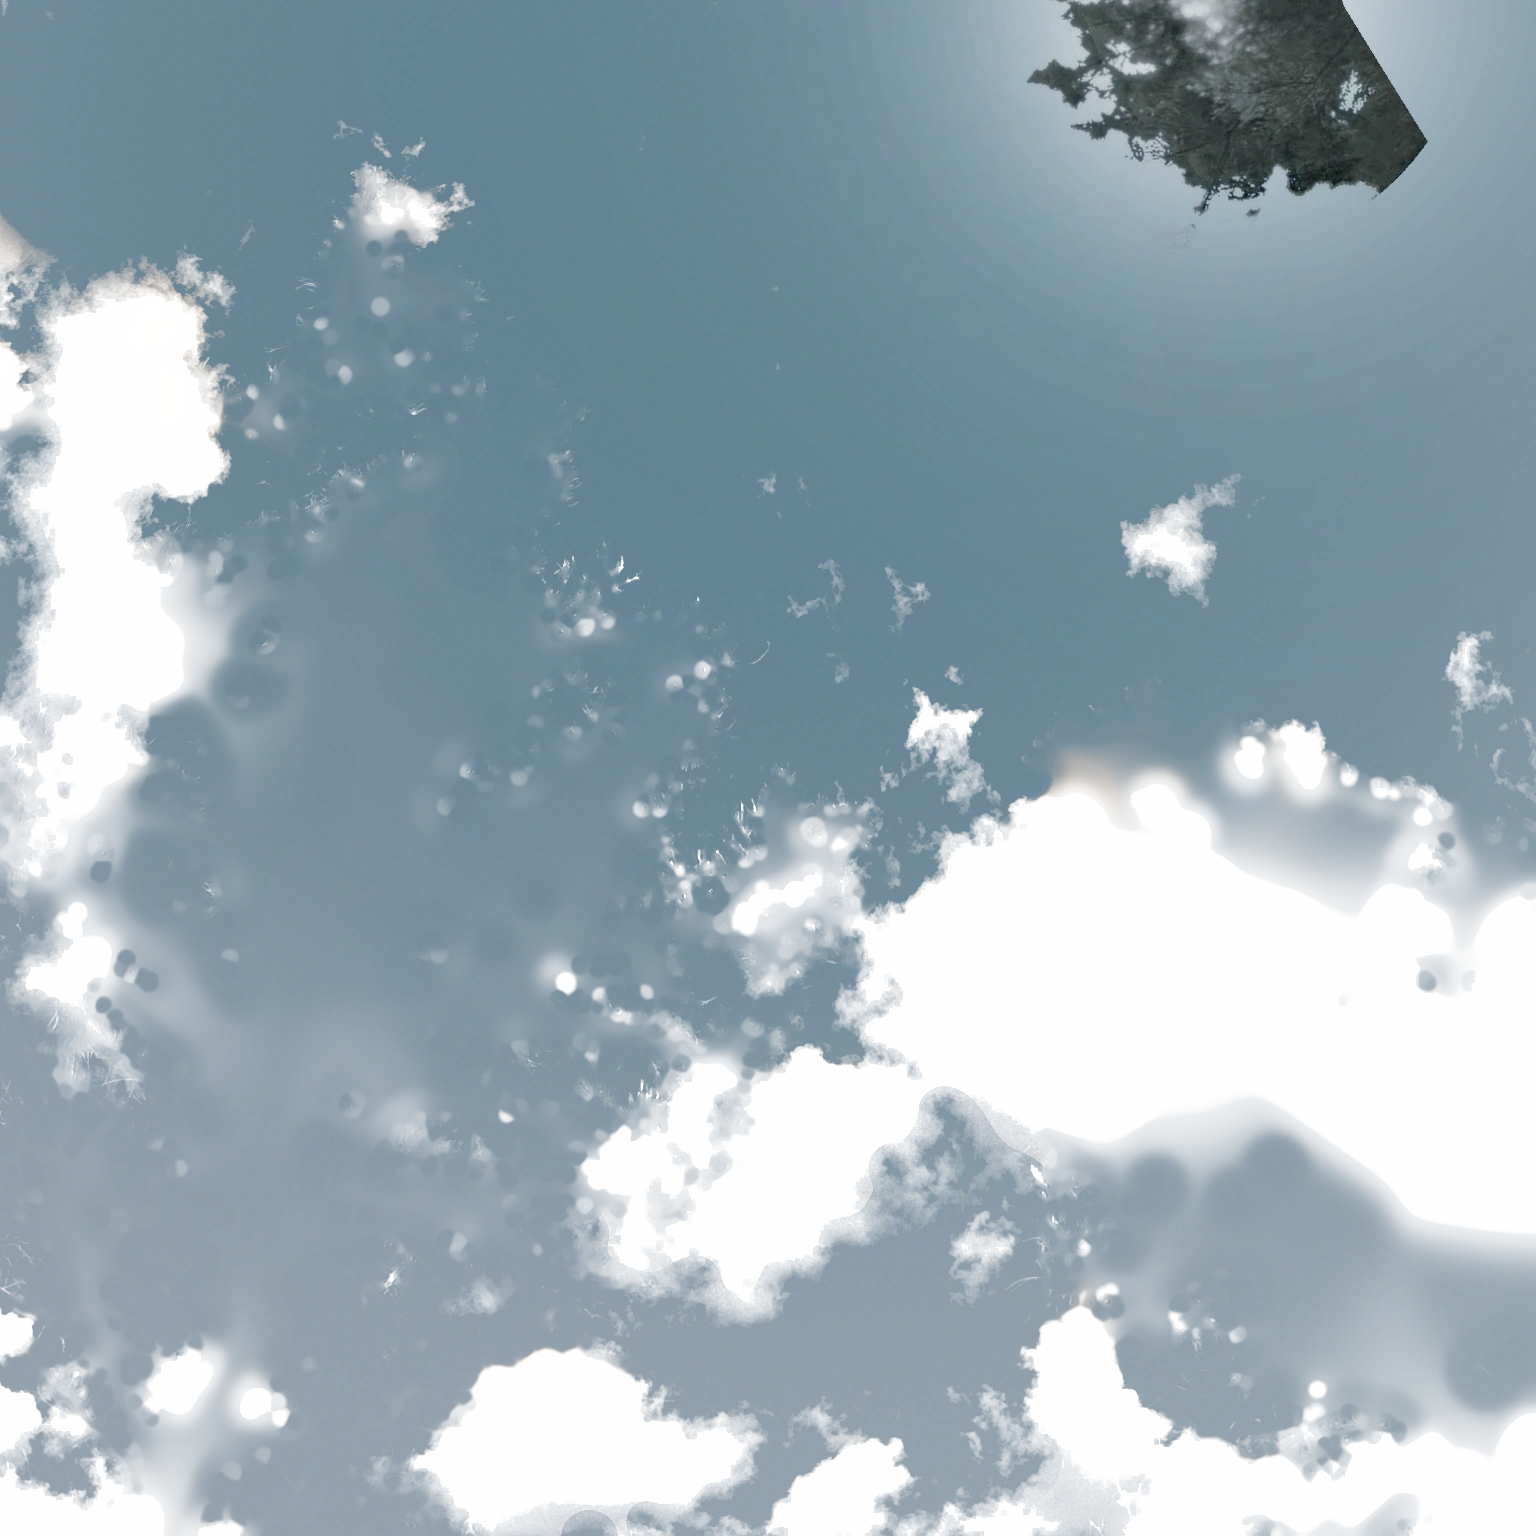
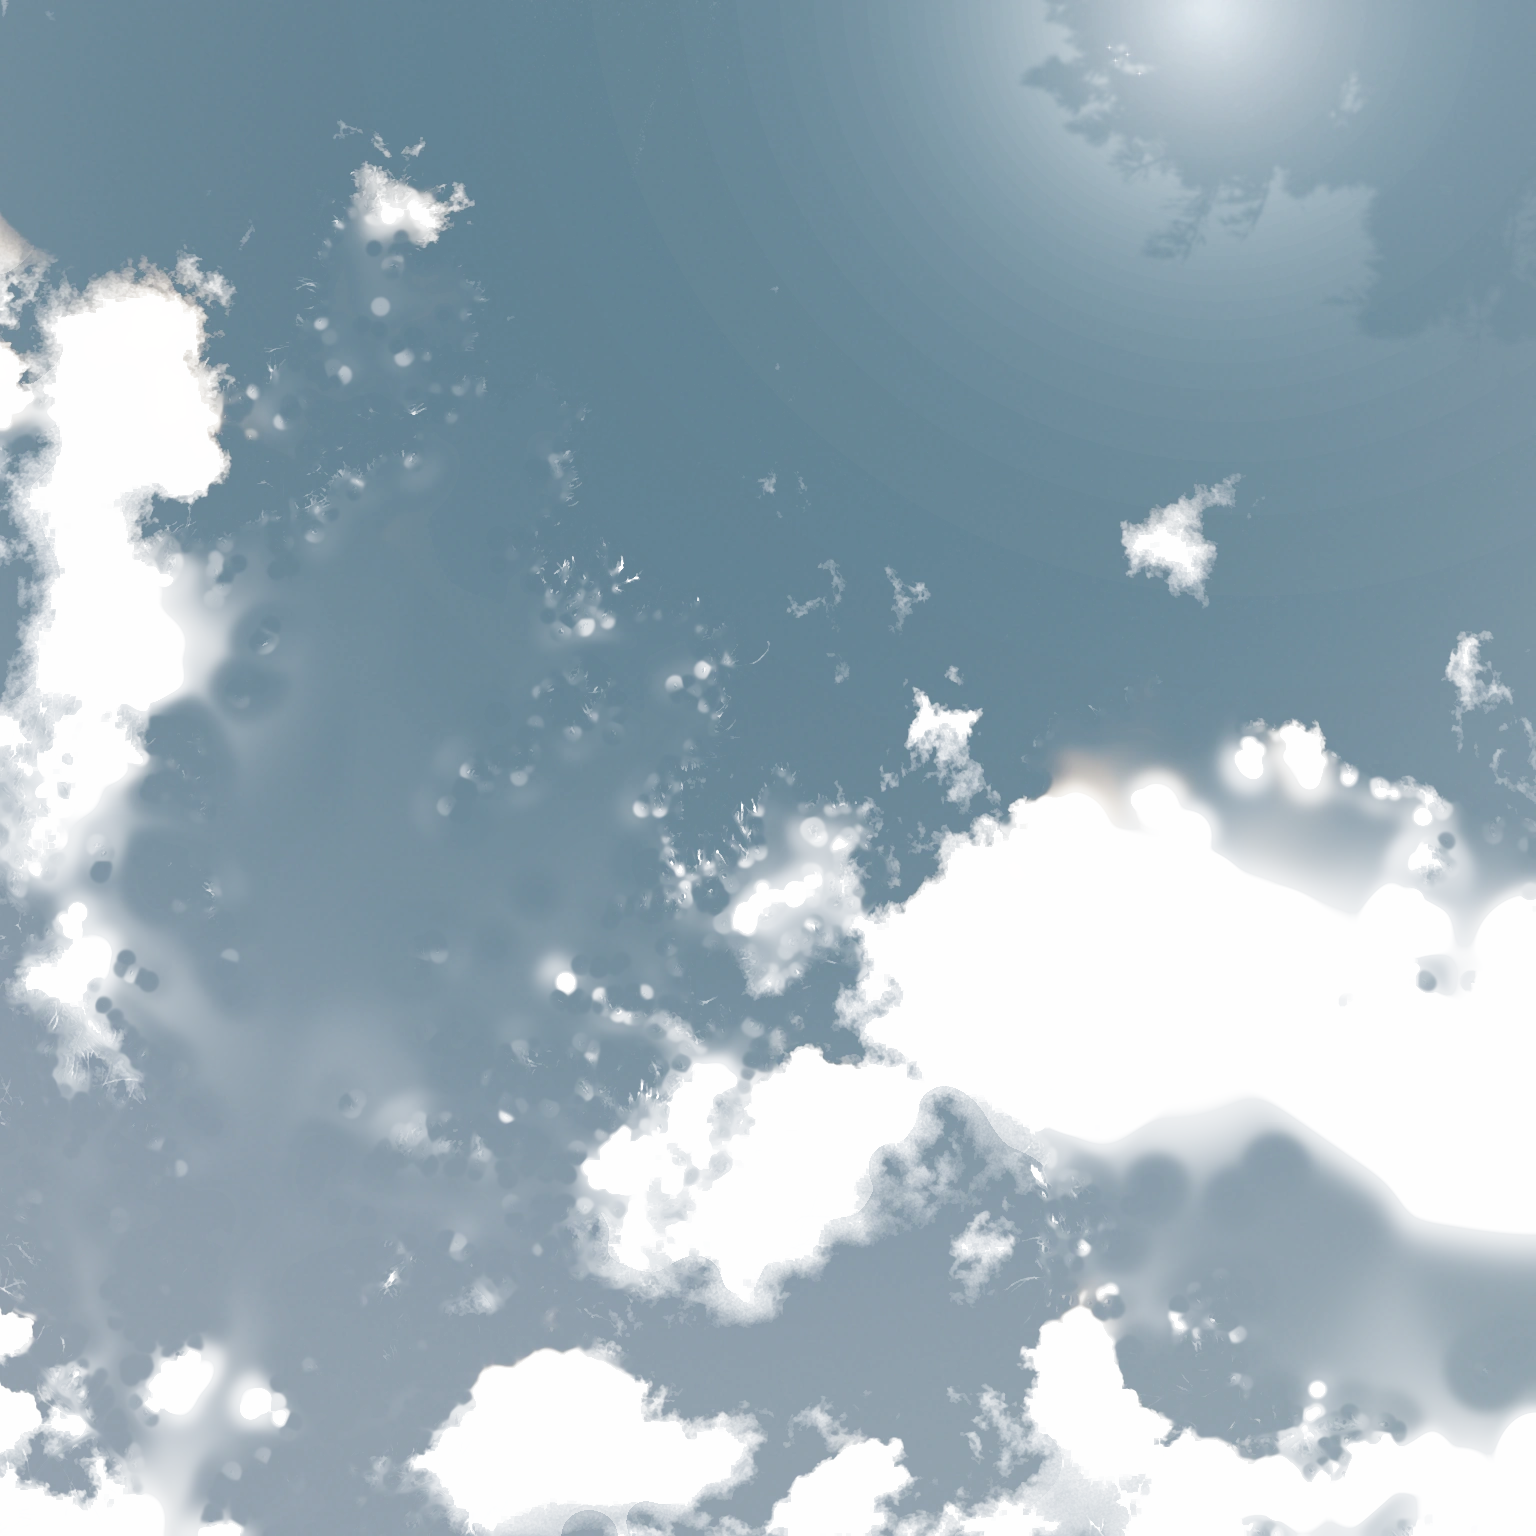
Lab: climb overexpose round 2
Claude-Session: https://claude.ai/code/session_01RqENhngNCzDFmJWDZueXGV

Changed region(s): [[0.6562, 0.0, 0.9375, 0.1562]]

diff --git a/tools/depth/bakes/overexpose/reaim.py b/tools/depth/bakes/overexpose/reaim.py
@@ -20,28 +20,41 @@
 #
 # Every pass so far is a function of the direction on the sky (the dome field is
 # of zenith angle alone, the hidden sun's aureole of the angle from it), so the
-# shipped bake is carried over exactly where it must be: each pixel of the new
+# shipped bake can be read exactly through the new camera: each pixel of the new
 # frame is a ray, and where that ray fell inside the old frame its scene,
 # sky-hold key, ink and matte are resampled from there (Lanczos, log-encoded
-# codes). That is kept only round the hidden sun (CARRY_DEG), where crown.py's
-# crown, its pin-holes, the aureole and the glow key live and no solve can
-# rebuild them. Everywhere else the tighter field would only magnify the old
-# plate (and its grain) by up to 1.4x, so the open sky is laid fresh as the
-# clean dome field (polarise.py's dome and crown.py's aureole, with
-# foliage.dome's low-order fit on the carried bake's open sky) times grain
-# matched to the photograph's at the bake's own scale, and the pines and the
-# cumulus are then solved from the 8k HDR's own radiance through the new camera
-# by foliage.foliage() and cumulus.cumulus(), exactly as they were solved before.
-# The hidden sun keeps its direction (deepen.U / V are its new frame position).
-# Where the new frame reaches past the old one's top edge the crown has nothing
-# to carry, so there (and across the carry's feather) it is solved from the HDR as
-# the other pines are.
+# codes). Nothing of it is kept in the picture, though: the tighter field would
+# only magnify the old plate (and its grain) by up to 1.4x, so the old bake only
+# lends its open sky to foliage.dome's low-order fit, its grain statistics and
+# its ink's median. The open sky is laid fresh everywhere as the clean dome
+# field (polarise.py's dome and crown.py's aureole, a function of the angle from
+# the hidden sun, with that fit) times grain matched to the photograph's at the
+# bake's own scale, and all three pines and the cumulus are then solved from the
+# 8k HDR's own radiance through the new camera by foliage.foliage() and
+# cumulus.cumulus(), exactly as they were solved before.
 #
-# Last, the optics: what the old optics held beyond a blur of the old visible
-# scene (the disc's veil around the hidden sun, beyond the encoding) is carried
-# over by the same resampling, and the blurs are rebaked from the new visible scene.
+# The hidden-sun crown too. An earlier run carried crown.py's crown (and with it
+# the aureole, pin-holes and glow key) over within 20-27 deg of the sun, the one
+# part no solve had rebuilt: it printed as the smeariest silhouette in the frame
+# (crown.py's donor was a tone-mapped, recompressed bake; its lip soft and
+# rubbery, a hanging wisp doubled by the resampling) and its feather met the
+# fresh dome along a straight diagonal seam. Now that crown is unmixed from the
+# HDR like the others (its needle sprays as fine as the lens left them), and the
+# hidden sun is laid again on the fresh sky share (sun()): the aureole is already
+# in the dome field behind the needles, so it shows through every real gap;
+# close to the sun the thinnest needles are eaten by irradiation (the matte's
+# gaps grow by up to IRR_PX); the disc sparkles in the crown's real pin-holes
+# within SPARK_DEG; and the sky hold's glow key is laid on the sky share, the
+# needle mass taking KEY_NEEDLE of it, so the crown prints as dark as the other
+# pines inside a cyan-white bloom. The hidden sun keeps its direction
+# (deepen.U / V are its new frame position).
+#
+# Last, the optics are baked from the new visible scene, plus the disc's own
+# light (beyond the encoding) as a tight veil round the hidden sun, weighted by
+# the new sky share (crown.veil).
 #
 #   python3 reaim.py <scene.webp> <trees.webp> <optics.png> <tree_lined_driveway_8k.hdr> [out_dir]
+# (optics.png is no longer read: nothing of the old optics is carried)
 # (pass copies of the old-aim files; the 3x render is cached beside the HDR)
 import sys, os; sys.path.insert(0, os.path.dirname(os.path.abspath(__file__)))
 import numpy as np
@@ -62,8 +75,12 @@ LUMA = np.array([0.2126, 0.7152, 0.0722])
 OLD = (178.0, 66.0, -10.0, 116.0, 0.4973, 0.0625)   # yaw, pitch, roll, field, hidden sun U, V of the bake carried over
 # (the first re-aim carried (150, 76, -10, 116, 0.3906, 0.1706) over to this one)
 OLD_GRAIN_BOX = (100, 330, 1050, 620)        # open sky in the old frame the grain is measured on (x0, y0, x1, y1)
-CARRY_DEG = (20.0, 27.0)                     # the old bake is kept this close to the hidden sun, fading out to the second
-FEATHER_PX = 10                              # the carried-over bake fades into the new plate over this band inside the old frame's edge
+FEATHER_PX = 10                              # the old bake's open sky counts for the dome fit this far inside the old frame's edge
+# the hidden sun, laid again on the fresh sky share (sun())
+IRR_PX, IRR_W, IRR_KEEP = 2.0, 2.5, 0.85     # irradiation: gap growth at the sun (px), its e-fold (deg), share of the opened sky kept
+SPARK_DEG, SPARK_N, SPARK_PX, SPARK_GAP = 6.0, 8, 14, 7   # sparkles: within (deg), how many, largest pin-hole (px), spacing (px)
+SPARK_OPEN = 0.35                            # a pin-hole's sky share must pass this at its brightest pixel
+SUN_KEY_DEG = 40.0                           # the glow key is laid again this close to the hidden sun (it is ~0 past it)
 
 def smooth(a, lo, hi):
     t = np.clip((a - lo) / (hi - lo), 0, 1)
@@ -107,16 +124,59 @@ def warp(a, mx, my, interp=cv2.INTER_LANCZOS4):
         return cv2.remap(a, mx, my, interp, borderMode=cv2.BORDER_REFLECT)
     return np.stack([cv2.remap(a[..., c], mx, my, interp, borderMode=cv2.BORDER_REFLECT) for c in range(a.shape[-1])], -1)
 
+def sun(out, a8, a, d, g):
+    """The hidden sun laid again on the fresh sky share: the aureole is in the dome field
+    behind the needles already; here the matte's thinnest needles are eaten by
+    irradiation, the disc sparkles in the crown's real pin-holes, and the sky hold's
+    glow key is laid on the sky share (the needle mass taking KEY_NEEDLE of it)."""
+    a = a.copy()
+    # irradiation: near the sun the light behind eats the thin needles, so the
+    # gaps open by up to IRR_PX; solid branches survive
+    rr = IRR_PX * np.exp(-g / IRR_W)
+    t = 1 - a
+    for r in range(1, int(np.ceil(IRR_PX)) + 1):
+        disk = np.hypot(*np.mgrid[-r:r + 1, -r:r + 1]) <= r + 0.3
+        dil = ndi.grey_dilation(t, footprint=disk) * IRR_KEEP
+        t = np.maximum(t, dil * np.clip(rr - r + 1, 0, 1))
+    a = np.where(g < 6 * IRR_W, 1 - t, a)
+    # sparkles: the disc through the crown's real pin-holes (small gaps not joined to the open sky)
+    lab, nl = ndi.label(a < 1 - SPARK_OPEN)
+    spark = np.zeros_like(a)
+    placed = []
+    if nl:
+        idx = np.arange(1, nl + 1)
+        size = ndi.sum(np.ones_like(a), lab, idx)
+        peak = ndi.minimum_position(a + 1e-3 * g, lab, idx)
+        cand = [k for k in range(nl) if size[k] <= SPARK_PX and g[peak[k]] < SPARK_DEG]
+        for k in sorted(cand, key=lambda k: g[peak[k]]):
+            r, c = peak[k]
+            if len(placed) == SPARK_N or any(abs(r - r2) + abs(c - c2) < SPARK_GAP for r2, c2 in placed):
+                continue
+            if r < 1 or c < 1 or r > a.shape[0] - 2 or c > a.shape[1] - 2:
+                continue
+            placed.append((r, c))
+            v = sunburst.SPARK_L * np.exp(-g[r, c] / sunburst.SPARK_W)
+            for dr, dc, f in sunburst.SPARK_KERN:
+                spark[r + dr, c + dc] = max(spark[r + dr, c + dc], f * v)
+            a[r, c] *= 0.3                      # the hole's brightest pixel lets the disc through
+    print('sparkles', len(placed), placed)
+    out = out + spark[..., None] * (sunburst.SPARK_COL / (sunburst.SPARK_COL @ LUMA))
+    # the glow key on the sky share: the needle mass is held nearly as the other pines
+    ksky = np.clip(ndi.gaussian_filter(1 - a, 1.5), 0, 1)
+    key = sunburst.KEY_A * np.exp(-g / sunburst.KEY_DEG) * (sunburst.KEY_NEEDLE + (1 - sunburst.KEY_NEEDLE) * ksky)
+    share = d + (1 - d) * key
+    a_new = 3 + 252 * np.round((1 - np.clip(share, 0, 1)) * 63) / 63
+    w = 1 - smooth(g, SUN_KEY_DEG - 5, SUN_KEY_DEG)
+    a8 = np.clip(np.round(a8 + w * (a_new - a8)), 0, 255).astype(np.uint8)
+    a[a < 0.004] = 0
+    return out, a8, a
+
 def main():
     s = np.asarray(Image.open(sys.argv[1]).convert('RGBA')); t = np.asarray(Image.open(sys.argv[2]).convert('RGBA'))
-    g8 = np.asarray(Image.open(sys.argv[3]).convert('RGB'))
     hdr = sys.argv[4]; od = sys.argv[5] if len(sys.argv) > 5 else bw.OUT
     n = s.shape[0]
     old_pix = bw.dec_log(s[..., :3]); old_a8 = s[..., 3].astype(float)
-    old_ink = bw.dec_log(t[..., :3]); old_ta = t[..., 3] / 255.0
-    # the old optics' own extra light (beyond a blur of what was seen), at 512
-    vis_old = old_pix * (1 - old_ta[..., None]) + old_ink * old_ta[..., None]
-    extra = bw.dec_log(g8) - bw.optics(vis_old)
+    old_ta = t[..., 3] / 255.0
     old_grain_pix = old_pix.copy()
 
     # the new aim (deepen.py holds it); the hidden sun keeps its direction
@@ -136,7 +196,7 @@ def main():
     ta = np.clip(warp(old_ta, mx, my), 0, 1)
 
     # 2. the open sky: the clean dome field times the photograph's grain, at the bake's
-    #    own scale; the old bake is kept only round the hidden sun (crown.py's crown and glow)
+    #    own scale, everywhere (the carried bake only lends the dome its fit)
     elev, g = deepen.geometry()
     T = polarise.sky_field(90.0 - elev)
     N = T + crown.aureole(T, g)
@@ -151,11 +211,8 @@ def main():
     ta = ta * w_in[..., 0]
     # the dome's low-order fit on the carried bake's open sky, then the fill with it
     D, _ = foliage.dome(pix, np.round(a8).astype(np.uint8), ~(w_in[..., 0] > 0.99), g, np.zeros((n, n)))
-    w_keep = w_in * (1 - smooth(g, *CARRY_DEG))[..., None]
-    print('old bake kept on %.3f of the frame (round the hidden sun)' % float((w_keep > 0.5).mean()))
-    pix = w_keep * pix + (1 - w_keep) * D * G
-    a8 = w_keep[..., 0] * a8 + (1 - w_keep[..., 0]) * key_glow
-    a8 = np.clip(np.round(a8), 0, 255).astype(np.uint8)
+    pix = D * G
+    a8 = np.clip(np.round(key_glow), 0, 255).astype(np.uint8)
 
     # 3. the pines and the cumulus solved again from the HDR through the new camera
     foliage.STRIP = (0, 0, 0, 0, 1)
@@ -163,23 +220,24 @@ def main():
     foliage.grain = lambda p, shape, r: grain0(old_grain_pix, shape, r)   # measured on the old frame's open sky
     raw = foliage.render(hdr)
     rng = np.random.default_rng(41)
-    # round the hidden sun the crown is crown.py's, carried over; where the new frame
-    # reaches past the old one's edge there is none to carry, so it is solved there too
-    # (and across the carry's feather, so the seam is under solid needle, not mixed sky)
-    w_crown = np.maximum(smooth(g, *foliage.CROWN_DEG), 1 - smooth(dist, FEATHER_PX, FEATHER_PX + 6.0) * inside)
-    plate, a8f, I, a, diag = foliage.foliage(pix, a8, ink, ta, raw, rng, crown_w=w_crown)
+    # the hidden sun's crown included: crown.py's is not carried, it is solved like the others
+    plate, a8f, I, a, diag = foliage.foliage(pix, a8, ink, ta, raw, rng, crown_w=np.ones((n, n)))
     rng = np.random.default_rng(53)
     out, a8n, cdiag = cumulus.cumulus(plate, a8f, a, raw, rng)
     out = np.clip(out, 2.0 ** bw.LO, 2.0 ** bw.HI)
 
-    # 4. optics: the blurs of the new visible scene, plus the old extra light carried over
+    # 4. the hidden sun, on the fresh sky share
+    out, a8n, a = sun(out, a8n, a, cdiag['d'], g)
+    out = np.clip(out, 2.0 ** bw.LO, 2.0 ** bw.HI)
+
+    # 5. optics: the blurs of the new visible scene, plus the disc's own veil
     vis = out * (1 - a[..., None]) + I * a[..., None]
-    S = 512; k = n // S
-    ex_d = warp(extra[:, :S], mx[::k, ::k] / k, my[::k, ::k] / k, cv2.INTER_LINEAR)
-    ex_h = warp(extra[:, S:], mx[::k, ::k] / k, my[::k, ::k] / k, cv2.INTER_LINEAR)
-    w_s = cv2.resize(w_keep[..., 0].astype(np.float32), (S, S), interpolation=cv2.INTER_AREA)[..., None]
-    ex = np.concatenate([ex_d * w_s, ex_h * w_s], 1)
-    glow = np.maximum(bw.optics(vis) + ex, 2.0 ** bw.LO)
+    ring = (g > 2) & (g < 6) & (a < 0.02) & (cdiag['d'] < 0.05)
+    ring = ring if ring.sum() > 50 else (g > 2) & (g < 6)
+    vcol = out[ring].mean(0)
+    vcol = vcol / (vcol @ LUMA)
+    vcol = vcol + sunburst.SRC_WHITE * (1 - vcol); vcol /= vcol @ LUMA
+    glow = np.maximum(bw.optics(vis) + crown.veil(1 - a, vcol, crown.VEIL_NEEDLE), 2.0 ** bw.LO)
 
     rng = np.random.default_rng(67)
     inside_m = a > 0
@@ -194,7 +252,7 @@ def main():
     for f in ('scene.webp', 'trees.webp', 'optics.png'):
         print(f, os.path.getsize(os.path.join(od, f)) // 1024, 'KB')
     if len(sys.argv) > 5:
-        v = np.stack([diag['a'], cdiag['d'], w_keep[..., 0]], -1)
+        v = np.stack([a, cdiag['d'], 1 - a8n / 255.0], -1)
         Image.fromarray((np.clip(v, 0, 1) * 255).astype(np.uint8)).save(os.path.join(od, 'reaim_diag.png'))
 
 if __name__ == '__main__':
